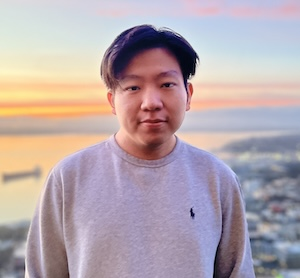
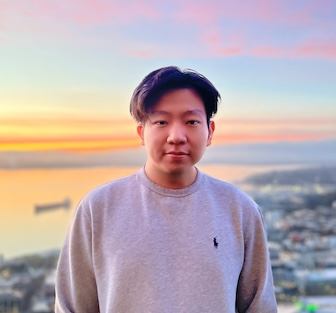
update portfolio-change profile picture, spellcheck

diff --git a/project.html b/project.html
@@ -53,7 +53,7 @@
                         <h2><a href="https://github.com/Olivery0307/Fusion_Model_for_VQA_verification" target=_blank>VQA Verification with DNN Fusion Model </a></h2>
                     </header>
                     <a class="image fit"><img src="images/vqa.jpeg" alt="" /></a>
-                    <p> A project on combining image and texual features to train a deep neural network fusion model on the VQA dataset. The model can be used to verify whether the iamges, questions and answers are matched correctly.
+                    <p> A project on combining image and texual features to train a deep neural network fusion model on the VQA dataset. The model can be used to verify whether the images, questions and answers are matched correctly.
                     </p>
                     <ul class="actions special">
                         <li><a href="https://github.com/Olivery0307/Fusion_Model_for_VQA_verification" target=_blank class="button">View My Project</a></li>
@@ -65,8 +65,8 @@
 						<h2><a href="https://github.com/Olivery0307/Artwork_Topic_Modeling" target=_blank>Artwork Topic-Modeling with MLLM</a></h2>
 					</header>
 					<a class="image fit"><img src="images/artwork.jpeg" alt="" /></a>
-					<p> A research project effectively combines topic modeling with large language models (LLM) and multi-modal LLM to analyze artworks. 
-						The combincation successfully captures trends and commonalities in artworks.
+					<p> A research project effectively combining topic modeling with large language models (LLM) and multi-modal LLM to analyze artworks. 
+						The combination successfully captures trends and commonalities in artworks.
 					</p>
 					<ul class="actions special">
 						<li><a href="https://github.com/Olivery0307/Artwork_Topic_Modeling" target=_blank class="button">View My Project</a></li>
@@ -92,7 +92,7 @@
 					</header>
 					<a class="image fit"><img src="images/reset_embodied.jpeg" alt="" /></a>
 					<p> An internship project that automates the scorecard generation process, streamlining presentation of Reset 
-                        Embodied data, untilizing python-pptx package and a pre-designed PowerPoint template.
+                        Embodied data, utilizing python-pptx package and a pre-designed PowerPoint template.
 					</p>
 					<ul class="actions special">
 						<li><a href="https://github.com/Olivery0307/Reset_Embodied" target=_blank class="button">View My Project</a></li>
@@ -148,7 +148,7 @@
 					</header>
 					<a class="image fit"><img src="images/Facebook.jpeg" alt="" /></a>
 					<p> An individual project that analyze the degree distribution and
-						six degree of seperation of the network of a large FaceBook dataset
+						six degree of separation of the network of a large FaceBook dataset
 						using Breadth-First-Search(BFS) on "Facebook:Social Circles"
 						via Rust.</p>
 					<ul class="actions special">
@@ -158,14 +158,14 @@
 
 				<article>
 					<header>
-						<h2><a href="https://drive.google.com/drive/folders/1nor9xZl85bnwGqzyjHz3Fmmy9uDbtnEM?usp=drive_link"  target=_blank>Ski Ticket Price Analysis <br />
+						<h2><a href="https://drive.google.com/drive/folders/1nor9xZl85bnwGqzyjHz3Fmmy9uDbtnEM?usp=sharing"  target=_blank>Ski Ticket Price Analysis <br />
 						with Python</a></h2>
 					</header>
 					<a class="image fit"><img src="images/Ski Resort.jpeg" alt="" /></a>
 					<p>A group project that comprehensively analyze the factors impacting European Ski Resorts' ticket prices
 						and give advice for both tourists for resort selection and resorts for pricing stategies.</p>
 					<ul class="actions special">
-						<li><a href="https://drive.google.com/drive/folders/1nor9xZl85bnwGqzyjHz3Fmmy9uDbtnEM?usp=drive_link" target=_blank class="button">View My Project</a></li>
+						<li><a href="https://drive.google.com/drive/folders/1nor9xZl85bnwGqzyjHz3Fmmy9uDbtnEM?usp=sharing" target=_blank class="button">View My Project</a></li>
 					</ul>
 				</article>
 
